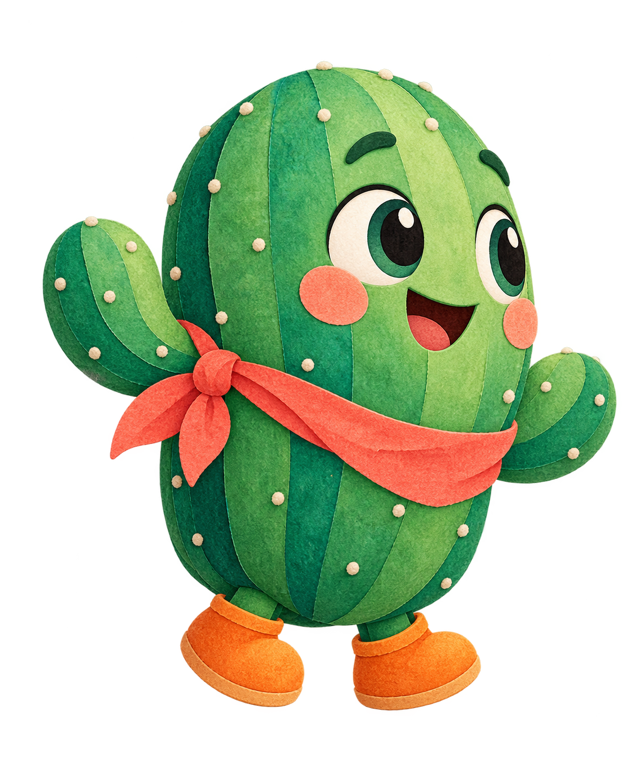
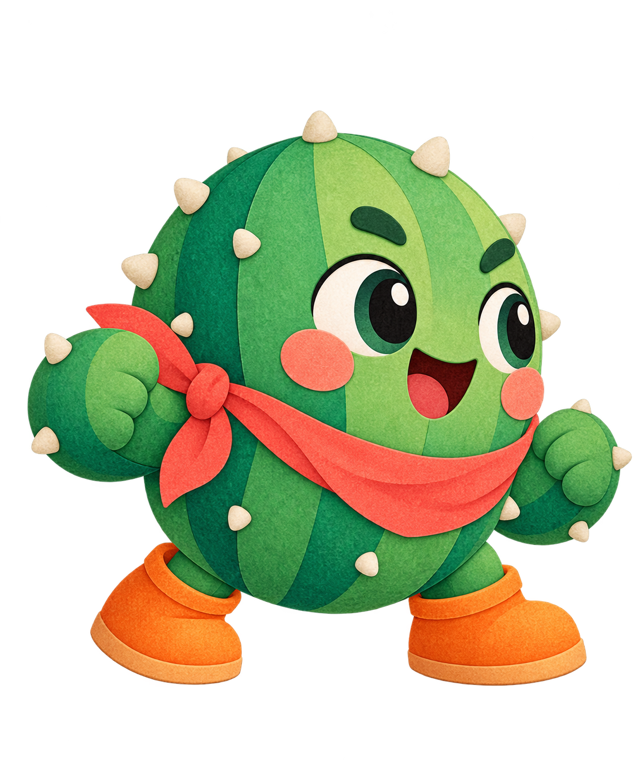
Add character worlds

diff --git a/src/App.tsx b/src/App.tsx
@@ -28,7 +28,7 @@ export default function Home(){
  useEffect(()=>{if(!profilesLoaded)return;try{localStorage.setItem(profileKey('mini'),JSON.stringify(profiles.mini));localStorage.setItem(profileKey('big'),JSON.stringify(profiles.big))}catch{setStorageWarning(true)}},[profiles,profilesLoaded]);
  useEffect(()=>{if(mode&&journey)try{localStorage.setItem(journeyKey(mode),JSON.stringify(journey))}catch{setStorageWarning(true)}},[mode,journey]);
  function submit(value:string|number){if(!task||lock.current||!mode)return;stop();setHeard(null);const n=Number(value);if(String(value).trim()===''||!Number.isInteger(n))return;if(n===task.answer){const earned=!helpUsed;lock.current=true;setJumping(true);setSolved(true);setCoinAwarded(earned);setInput(String(n));if(earned)setProfiles(current=>({...current,[mode]:{...current[mode],coins:current[mode].coins+1}}));setMessage(earned?'Geschafft! Eine Münze für dich.':'Geschafft! Mit Hilfe zählt der Sprung genauso.');speak(earned?'Juhu, geschafft! Eine Münze für dich.':'Juhu, geschafft!')}else{setInput('');setMessage('Noch nicht ganz. Wir haben Zeit. Versuch es noch einmal oder hol dir einen Tipp.');playTryAgainTone();speak('Noch nicht ganz. Versuch es noch einmal.')}}
- function next(){if(!journey||!solved||jumping)return;const j={...journey,step:journey.step+1};clear();setJourney(j);if(j.step<5)speak(taskText(j.tasks[j.step]));else speak('Wir sind am Iglu! Toll gemacht. Zeit für eine Pause?')}
+ function next(){if(!journey||!solved||jumping)return;const j={...journey,step:journey.step+1};clear();setJourney(j);if(j.step<5)speak(taskText(j.tasks[j.step]));else speak(`Wir sind ${activeAvatar.destinationPhrase}! Toll gemacht. Zeit für eine Pause?`)}
  useEffect(()=>{if(!solved||jumping||!journey)return;const timer=window.setTimeout(next,1100);return()=>window.clearTimeout(timer)},[solved,jumping,journey]);
  function another(){if(!journey||!mode)return;const j={...journey,step:0,round:journey.round+1,tasks:makeTasks(mode,journey.round+1)};clear();setJourney(j);speak(taskText(j.tasks[0]))}
  function listen(){if(listening){stop();return}if(!task||solved)return;window.speechSynthesis?.cancel();stop();setHeard(null);const C=(window as any).SpeechRecognition||(window as any).webkitSpeechRecognition;if(!C){setMessage('Sprache klappt hier noch nicht. Tippe deine Zahl unten ein.');return}let received=false;const r:Recognition=new C();recognition.current=r;r.lang='de-DE';r.continuous=false;r.interimResults=false;r.onresult=(e:any)=>{if(recognition.current!==r)return;received=true;const text=e.results[0][0].transcript,n=parseNumber(text);if(n===null){setMessage('Das habe ich nicht sicher verstanden. Sag nur die Zahl oder nutze das Zahlenpad.')}else if(n===task.answer){submit(n)}else{setHeard(n);setMessage(`Ich habe ${n} verstanden. Stimmt das?`)}};r.onerror=(e:any)=>{if(recognition.current!==r)return;received=true;setListening(false);setMessage(e.error==='not-allowed'?'Das Mikrofon ist nicht freigegeben. Du kannst das Zahlenpad nutzen oder Safari den Mikrofonzugriff erlauben.':'Ich habe dich nicht verstanden. Versuch es noch einmal oder tippe deine Zahl.')};r.onend=()=>{if(recognition.current===r){recognition.current=null;setListening(false);if(!received)setMessage('Ich habe keine Zahl gehört. Tippe auf das Mikrofon und versuch es noch einmal.')}};try{r.start();setListening(true);setMessage('Ich höre zu. Sag deine Zahl.')}catch{recognition.current=null;setListening(false);setMessage('Das Mikrofon startet gerade nicht. Das Zahlenpad funktioniert trotzdem.')}}
@@ -38,9 +38,9 @@ export default function Home(){
  function confirmPurchase(){if(!shopMode||!pendingPurchase)return;const avatar=AVATARS.find(item=>item.id===pendingPurchase);if(!avatar)return;setProfiles(current=>{const profile=current[shopMode];if(profile.owned.includes(avatar.id)||profile.coins<avatar.price)return current;return {...current,[shopMode]:{coins:profile.coins-avatar.price,owned:[...profile.owned,avatar.id],active:avatar.id}}});setShopMessage(`${avatar.name} gehört jetzt dir und ist ausgewählt!`);setPendingPurchase(null);speak(`${avatar.name} ist freigeschaltet!`)}
  function help(){const level=Math.min(2,hint+1);stop();setHint(level);setHelpUsed(true);if(task){speak(level===2?`Die Lösung ist ${task.answer}. Tippe die Zahl ein. Gemeinsam zählt auch!`:task.kind==='divide'?`Verteile ${task.a} Fische gleichmäßig auf ${task.b} Pinguine.`:task.kind==='times'?`Zähle ${task.a} Gruppen mit jeweils ${task.b} Fischen.`:task.kind==='plus'?`Nimm zuerst die größere Zahl und zähle die kleinere dazu. Die Fische helfen dir dabei.`:'Zähle die Fische in Ruhe. Du kannst sie antippen.')}}
  return <main className={'app '+(activeMode?'has-active-game':'')}><header><span className="brand"><img src={import.meta.env.BASE_URL+"pippo.png"} alt="" className="brand-pippo"/> Pippos Schollenreise</span>{activeMode?<button className="back" onClick={()=>{if(shopMode)closeShop();else{clear();setMode(null);setJourney(null)}}}><ArrowLeft size={17}/> Auswahl</button>:<span className="tag">Dein kleines Rechenabenteuer</span>}</header><div className={'game '+(mode?'playing':shopMode?'shopping':'')}><JourneyScene key={`${activeMode||'welcome'}-${journey?.round||0}`} destination={mode?visualStep(journey?.step||0,solved):0} coins={activeProfile.coins} avatar={activeProfile.active} active={Boolean(activeMode)} onArrive={()=>setJumping(false)}/><section className="panel">
- {shopMode?<div className="shop-screen"><div className="shop-top"><div><p className="eyebrow">{shopMode==='mini'?'🐣':'🧭'} {profileLabel(shopMode).toUpperCase()}</p><h1>Figuren & Shop</h1></div><div className="coin-wallet" aria-label={`${activeProfile.coins} Münzen`}><Coins size={21}/> {activeProfile.coins}</div></div><p className="shop-intro">Löse Aufgaben ohne Hilfe und spare Münzen. Gekaufte Figuren bleiben auf diesem Gerät.</p><div className="shop-grid">{AVATARS.map(avatar=>{const owned=activeProfile.owned.includes(avatar.id),selected=activeProfile.active===avatar.id,missing=Math.max(0,avatar.price-activeProfile.coins),confirming=pendingPurchase===avatar.id;return <article className={`shop-card ${selected?'selected':''}`} key={avatar.id}><div className="shop-art"><img src={import.meta.env.BASE_URL+avatar.id+".png"} alt={avatar.name}/>{selected&&<span className="selected-badge"><Check size={15}/> Ausgewählt</span>}</div><div className="shop-card-copy"><h2>{avatar.name}</h2><p>{avatar.effect}</p></div>{confirming?<div className="buy-confirm" role="group" aria-label={`${avatar.name} kaufen`}><strong>{avatar.name} für {avatar.price} Münzen kaufen?</strong><span>Danach bleiben {activeProfile.coins-avatar.price}.</span><div><button onClick={confirmPurchase}>Ja, kaufen</button><button className="quiet" onClick={()=>setPendingPurchase(null)}>Noch nicht</button></div></div>:<button className={`shop-action ${owned?'owned':''}`} disabled={selected||(!owned&&missing>0)} onClick={()=>chooseAvatar(avatar.id)}>{selected?'Ist ausgewählt':owned?'Auswählen':missing>0?<><Lock size={16}/> Noch {missing} Münzen</>:<><ShoppingBag size={16}/> Für {avatar.price} kaufen</>}</button>}</article>})}</div><p className="shop-message" role="status">{shopMessage||'Pippo ist kostenlos. Dino, Skelett und Kaktus kannst du dir erspielen.'}</p></div>:!mode?<><p className="eyebrow">HALLO, ICH BIN PIPPO!</p><h1>Komm, wir hüpfen<br/>übers Eis.</h1><p>Du rechnest. Ich springe. Zusammen kommen wir nach Hause.</p>{(['mini','big'] as Mode[]).map(m=><div className="profile-block" key={m}><button className="profile" onClick={()=>start(m)}><img src={import.meta.env.BASE_URL+profiles[m].active+".png"} alt=""/><span>{m==='mini'?'🐣 Kleine Entdecker':'🧭 Schlaue Abenteurer'}<small>{m==='mini'?'Plus, Mal & Geteilt im Zahlenraum bis 20':'Teilen & Malnehmen mit kleinen Zahlen'}</small></span></button><div className="profile-tools"><span><Coins size={17}/> {profiles[m].coins} Münzen</span><button onClick={()=>openShop(m)}><ShoppingBag size={17}/> Figuren & Shop</button></div></div>)}<p className="footnote">Fünf kleine Aufgaben. So viel Zeit, wie du brauchst.<br/>Deine Reise und deine Münzen bleiben auf diesem Gerät gespeichert.</p></>:finished?<div className="finish"><img className="finish-pippo" src={import.meta.env.BASE_URL+activeProfile.active+".png"} alt={`${activeAvatar.name} freut sich`}/><p className="eyebrow">WIR SIND ZU HAUSE!</p><h1>Fünf Sprünge.<br/>Richtig viel geschafft.</h1><p>Alle fünf Aufgaben sind geschafft. Auch mit Hilfe – wir sind ein Team!</p><div className="coin-finish" aria-label={`${activeProfile.coins} Münzen`}><Coins size={25}/> {activeProfile.coins} Münzen im Beutel</div><button className="primary" onClick={another}>Noch eine Reise <ArrowRight size={20}/></button><button className="quiet" onClick={()=>{clear();setMode(null);setJourney(null)}}>Für heute ist es genug</button></div>:task&&<>
+ {shopMode?<div className="shop-screen"><div className="shop-top"><div><p className="eyebrow">{shopMode==='mini'?'🐣':'🧭'} {profileLabel(shopMode).toUpperCase()}</p><h1>Figuren & Shop</h1></div><div className="coin-wallet" aria-label={`${activeProfile.coins} Münzen`}><Coins size={21}/> {activeProfile.coins}</div></div><p className="shop-intro">Jede Figur bringt ihre eigene Welt mit. Löse Aufgaben ohne Hilfe und spare Münzen.</p><div className="shop-grid">{AVATARS.map(avatar=>{const owned=activeProfile.owned.includes(avatar.id),selected=activeProfile.active===avatar.id,missing=Math.max(0,avatar.price-activeProfile.coins),confirming=pendingPurchase===avatar.id;return <article className={`shop-card ${selected?'selected':''}`} key={avatar.id}><div className="shop-art" style={{backgroundImage:`linear-gradient(#ffffff22,#ffffff55),url(${import.meta.env.BASE_URL}${avatar.world})`}}><img src={import.meta.env.BASE_URL+avatar.id+".png"} alt={avatar.name}/>{selected&&<span className="selected-badge"><Check size={15}/> Ausgewählt</span>}</div><div className="shop-card-copy"><h2>{avatar.name}</h2><span className="world-chip">🌍 {avatar.worldName}</span><p>{avatar.effect}</p></div>{confirming?<div className="buy-confirm" role="group" aria-label={`${avatar.name} kaufen`}><strong>{avatar.name} für {avatar.price} Münzen kaufen?</strong><span>Danach bleiben {activeProfile.coins-avatar.price}.</span><div><button onClick={confirmPurchase}>Ja, kaufen</button><button className="quiet" onClick={()=>setPendingPurchase(null)}>Noch nicht</button></div></div>:<button className={`shop-action ${owned?'owned':''}`} disabled={selected||(!owned&&missing>0)} onClick={()=>chooseAvatar(avatar.id)}>{selected?'Ist ausgewählt':owned?'Auswählen':missing>0?<><Lock size={16}/> Noch {missing} Münzen</>:<><ShoppingBag size={16}/> Für {avatar.price} kaufen</>}</button>}</article>})}</div><p className="shop-message" role="status">{shopMessage||'Pippo ist kostenlos. Dino, Skelett und Kaktus kannst du dir erspielen.'}</p></div>:!mode?<><p className="eyebrow">HALLO, ICH BIN PIPPO!</p><h1>Komm, wir reisen<br/>durch neue Welten.</h1><p>Du rechnest. Deine Figur springt. Zusammen erreichen wir das Ziel.</p>{(['mini','big'] as Mode[]).map(m=><div className="profile-block" key={m}><button className="profile" onClick={()=>start(m)}><img src={import.meta.env.BASE_URL+profiles[m].active+".png"} alt=""/><span>{m==='mini'?'🐣 Kleine Entdecker':'🧭 Schlaue Abenteurer'}<small>{m==='mini'?'Plus, Mal & Geteilt im Zahlenraum bis 20':'Teilen & Malnehmen mit kleinen Zahlen'}</small></span></button><div className="profile-tools"><span><Coins size={17}/> {profiles[m].coins} Münzen</span><button onClick={()=>openShop(m)}><ShoppingBag size={17}/> Figuren & Shop</button></div></div>)}<p className="footnote">Fünf kleine Aufgaben. So viel Zeit, wie du brauchst.<br/>Deine Reise und deine Münzen bleiben auf diesem Gerät gespeichert.</p></>:finished?<div className="finish"><img className="finish-pippo" src={import.meta.env.BASE_URL+activeProfile.active+".png"} alt={`${activeAvatar.name} freut sich`}/><p className="eyebrow">WIR SIND AM ZIEL!</p><h1>Fünf Sprünge.<br/>Richtig viel geschafft.</h1><p>Alle fünf Aufgaben sind geschafft. Auch mit Hilfe – wir sind ein Team!</p><div className="coin-finish" aria-label={`${activeProfile.coins} Münzen`}><Coins size={25}/> {activeProfile.coins} Münzen im Beutel</div><button className="primary" onClick={another}>Noch eine Reise <ArrowRight size={20}/></button><button className="quiet" onClick={()=>{clear();setMode(null);setJourney(null)}}>Für heute ist es genug</button></div>:task&&<>
  <div className="round-top"><span>{mode==='mini'?'🐣 Kleine Entdecker':'🧭 Schlaue Abenteurer'}</span><span className="round-coins"><Coins size={16}/>{activeProfile.coins}</span><span>{journey!.step+1} / 5</span></div><Progress value={visualStep(journey!.step,solved)*20} aria-label={`${visualStep(journey!.step,solved)} von 5 Aufgaben geschafft`} className="journey-progress"/>
- {solved?<div className={`celebration-card ${coinAwarded?'coin-earned':''}`} role="status" aria-live="assertive"><div className="celebration-stars" aria-hidden="true">{coinAwarded?'🪙 ⭐ 🪙':'⭐ ✨ ⭐'}</div><h1>{coinAwarded?'Münze verdient!':'Super gemacht!'}</h1><p>{journey!.step===4?`${activeAvatar.name} hüpft jetzt zum Iglu.`:`${activeAvatar.name} landet auf der nächsten Scholle.`}</p><span>{coinAwarded?'+1 Münze · ':helpUsed?'Mit Hilfe geschafft · ':''}{jumping?'Huuuupf!':'Gleich kommt die nächste Aufgabe …'}</span></div>:<>
+ {solved?<div className={`celebration-card ${coinAwarded?'coin-earned':''}`} role="status" aria-live="assertive"><div className="celebration-stars" aria-hidden="true">{coinAwarded?'🪙 ⭐ 🪙':'⭐ ✨ ⭐'}</div><h1>{coinAwarded?'Münze verdient!':'Super gemacht!'}</h1><p>{journey!.step===4?`${activeAvatar.name} hüpft jetzt ${activeAvatar.destinationPhrase}.`:`${activeAvatar.name} landet auf der nächsten Etappe.`}</p><span>{coinAwarded?'+1 Münze · ':helpUsed?'Mit Hilfe geschafft · ':''}{jumping?'Huuuupf!':'Gleich kommt die nächste Aufgabe …'}</span></div>:<>
  <div className="task-heading"><p className="eyebrow">{task.kind==='count'?'FISCHE ZÄHLEN':task.kind==='divide'?'FAIR VERTEILEN':task.kind==='times'?'MALNEHMEN':'PLUS BIS 20'}</p><button className="icon-button" aria-label="Aufgabe vorlesen" onClick={()=>speak(taskText(task))}><Volume2 size={22}/></button></div>
  <h1 className="equation">{task.kind==='count'?'Wie viele?':`${task.a} ${task.kind==='plus'?'+':task.kind==='times'?'×':'÷'} ${task.b} = ?`}</h1>
  {task.kind==='count'?<div className="fish-problem" key={journey!.step}><Fish count={task.a}/></div>:<p className="task-story">{task.kind==='plus'?'Rechne im Kopf. Wenn du festhängst, hilft Pippo dir.':taskText(task)}</p>}
@@ -51,7 +51,7 @@ export default function Home(){
  <div className="secondary-actions"><button className="help" onClick={help}><Lightbulb size={18}/>{hint===0?'Pippo, hilf mir!':hint===1?'Zeig mir die Lösung':'Lösung noch einmal hören'}</button>{speechAvailable&&<button className={'speech-option '+(listening?'listening':'')} onClick={listen}>{listening?<Square size={17}/>:<Mic size={17}/>} {listening?'Ich höre zu …':'Antwort sprechen (optional)'}</button>}</div></>}
  </>}
  {storageWarning&&<p className="small-note">Dein Browser kann die Reise gerade nicht speichern. Du kannst trotzdem spielen.</p>}
- </section></div><footer><details className="voice-settings"><summary>Vorlesestimme anhören & ändern</summary><div className="voice-controls"><label>Deutsche Stimme<NativeSelect aria-label="Deutsche Vorlesestimme" value={voiceKey} onChange={e=>saveVoice(e.target.value)}><NativeSelectOption value="">Automatisch{voices[0]?` · ${voices[0].name}`:""}</NativeSelectOption>{voices.map(v=><NativeSelectOption key={v.voiceURI} value={v.voiceURI}>{v.name} ({v.lang})</NativeSelectOption>)}</NativeSelect></label><label>Sprechtempo<NativeSelect aria-label="Sprechtempo" value={String(rate)} onChange={e=>saveRate(Number(e.target.value))}><NativeSelectOption value="0.85">Langsam</NativeSelectOption><NativeSelectOption value="0.97">Natürlich</NativeSelectOption><NativeSelectOption value="1.05">Etwas flotter</NativeSelectOption></NativeSelect></label><button className="primary" onClick={()=>speak("Hallo, ich bin Pippo. Lass uns zusammen über die Eisschollen hüpfen. Du hast alle Zeit der Welt.")}><Volume2 size={20}/> Stimme vorhören</button></div><p role="status">{voiceNotice||"Das Spiel nutzt die deutschen Stimmen, die dein Browser bereitstellt. Höherwertige Stimmen werden bevorzugt, wenn sie als solche gekennzeichnet sind."}</p><p>Auf iPhone und iPad lassen sich weitere Stimmen in den Bedienungshilfen herunterladen. Welche davon Safari anbietet, hängt vom Gerät ab. <a href="https://support.apple.com/de-de/111798" target="_blank" rel="noreferrer">Apples Anleitung zu Vorlesestimmen</a></p></details><details><summary>Für die Großen: Sprache & Speichern</summary><p>Zum Sprechen auf das Mikrofon tippen und nur die Zahl sagen. Die Spracherkennung kommt vom Browser und kann Audio an dessen Sprachdienst übertragen. Dieses Spiel speichert keine Sprachaufnahmen. Falsch verstandene Zahlen musst du erst bestätigen. Aufgaben, Münzen, Figuren und Reise werden nur in diesem Browser gespeichert, getrennt für beide Spielprofile und ohne Synchronisierung zwischen Geräten. Vorlesen ist über das Lautsprechersymbol möglich.</p><p>Erste Testversion: Am besten gemeinsam eine Runde ausprobieren. Falls Sprache nicht klappt, funktioniert das Zahlenpad weiter.</p></details></footer></main>
+ </section></div><footer><details className="voice-settings"><summary>Vorlesestimme anhören & ändern</summary><div className="voice-controls"><label>Deutsche Stimme<NativeSelect aria-label="Deutsche Vorlesestimme" value={voiceKey} onChange={e=>saveVoice(e.target.value)}><NativeSelectOption value="">Automatisch{voices[0]?` · ${voices[0].name}`:""}</NativeSelectOption>{voices.map(v=><NativeSelectOption key={v.voiceURI} value={v.voiceURI}>{v.name} ({v.lang})</NativeSelectOption>)}</NativeSelect></label><label>Sprechtempo<NativeSelect aria-label="Sprechtempo" value={String(rate)} onChange={e=>saveRate(Number(e.target.value))}><NativeSelectOption value="0.85">Langsam</NativeSelectOption><NativeSelectOption value="0.97">Natürlich</NativeSelectOption><NativeSelectOption value="1.05">Etwas flotter</NativeSelectOption></NativeSelect></label><button className="primary" onClick={()=>speak("Hallo, ich bin Pippo. Lass uns zusammen auf Abenteuerreise gehen. Du hast alle Zeit der Welt.")}><Volume2 size={20}/> Stimme vorhören</button></div><p role="status">{voiceNotice||"Das Spiel nutzt die deutschen Stimmen, die dein Browser bereitstellt. Höherwertige Stimmen werden bevorzugt, wenn sie als solche gekennzeichnet sind."}</p><p>Auf iPhone und iPad lassen sich weitere Stimmen in den Bedienungshilfen herunterladen. Welche davon Safari anbietet, hängt vom Gerät ab. <a href="https://support.apple.com/de-de/111798" target="_blank" rel="noreferrer">Apples Anleitung zu Vorlesestimmen</a></p></details><details><summary>Für die Großen: Sprache & Speichern</summary><p>Zum Sprechen auf das Mikrofon tippen und nur die Zahl sagen. Die Spracherkennung kommt vom Browser und kann Audio an dessen Sprachdienst übertragen. Dieses Spiel speichert keine Sprachaufnahmen. Falsch verstandene Zahlen musst du erst bestätigen. Aufgaben, Münzen, Figuren und Reise werden nur in diesem Browser gespeichert, getrennt für beide Spielprofile und ohne Synchronisierung zwischen Geräten. Vorlesen ist über das Lautsprechersymbol möglich.</p><p>Erste Testversion: Am besten gemeinsam eine Runde ausprobieren. Falls Sprache nicht klappt, funktioniert das Zahlenpad weiter.</p></details></footer></main>
 }
 function Fish({count}:{count:number}){const [marked,setMarked]=useState<number[]>([]);useEffect(()=>setMarked([]),[count]);return <span className="fishes">{Array.from({length:count},(_,i)=><button type="button" key={i} className={marked.includes(i)?'counted':''} aria-label={`Fisch ${i+1}`} aria-pressed={marked.includes(i)} onClick={()=>setMarked(s=>s.includes(i)?s.filter(x=>x!==i):[...s,i])}>🐟</button>)}</span>}
 function Progress({value,...props}:ComponentProps<'div'>&{value:number}){return <div data-slot="progress" {...props}><div data-slot="progress-track"><span data-slot="progress-indicator" style={{width:`${value}%`}}/></div></div>}

diff --git a/src/journey.css b/src/journey.css
@@ -3,6 +3,7 @@
 .profile-block{border:2px solid #d5e8e6;border-radius:19px;background:#f2f9f7;margin-top:13px;overflow:hidden}.profile-block .profile{display:grid;grid-template-columns:48px 1fr;align-items:center;gap:10px;border:0;border-radius:0;margin:0;background:transparent}.profile-block .profile:hover{background:#e3f2ef}.profile-block .profile img{grid-row:1;width:43px;height:52px;object-fit:contain}.profile-block .profile>span{display:block}.profile-block .profile small{margin:6px 0 0}.profile-tools{display:flex;justify-content:space-between;align-items:center;gap:10px;border-top:1px solid #d5e8e6;padding:8px 12px 8px 18px}.profile-tools span,.profile-tools button,.round-coins,.coin-wallet,.coin-finish{display:inline-flex;align-items:center;gap:6px}.profile-tools span{font-size:14px;font-weight:750;color:#8a5a16}.profile-tools button{border:0;border-radius:11px;background:#fff;padding:8px 10px;min-height:40px;color:#176a76;font-weight:750}.round-top{align-items:center}.round-coins{color:#8a5a16}.coin-finish{justify-content:center;margin:14px auto;color:#8a5a16;font-size:18px;font-weight:800}.celebration-card.coin-earned{background:linear-gradient(145deg,#fff2bd,#e9faf3);box-shadow:inset 0 0 0 2px #fff,0 12px 40px #e8b84d30}.celebration-card.coin-earned .celebration-stars{animation:coin-pop 1.1s ease-out both}
 
 .shopping .panel{justify-content:flex-start;padding:28px 30px;min-width:0}.shop-screen{width:100%}.shop-top{display:flex;align-items:flex-start;justify-content:space-between;gap:12px}.shop-top h1{margin:3px 0 0;font-size:34px}.shop-top .eyebrow{margin:0}.coin-wallet{flex-shrink:0;border-radius:999px;background:#fff1be;color:#7f5112;padding:10px 14px;font-weight:850;font-size:18px;box-shadow:inset 0 0 0 1px #e8c866}.shop-intro{margin:8px 0 15px;color:#526d77;font-size:14px;line-height:1.45}.shop-grid{display:grid;grid-template-columns:repeat(2,minmax(0,1fr));gap:11px}.shop-card{display:flex;flex-direction:column;min-width:0;border:2px solid #d8e7e4;border-radius:17px;background:#f8fbfa;overflow:hidden}.shop-card.selected{border-color:#168290;background:#eef8f5}.shop-art{position:relative;height:125px;display:flex;align-items:flex-end;justify-content:center;background:linear-gradient(180deg,#dff4ef,#fff6d9);overflow:hidden}.shop-art img{width:92px;height:116px;object-fit:contain;object-position:center bottom;filter:drop-shadow(0 4px 3px #17465325)}.selected-badge{position:absolute;right:7px;top:7px;display:inline-flex;align-items:center;gap:3px;background:#176f77;color:#fff;border-radius:999px;padding:5px 7px;font-size:11px;font-weight:800}.shop-card-copy{padding:10px 11px 5px;min-height:84px}.shop-card h2{font-size:18px;margin:0 0 3px;color:#174653}.shop-card p{font-size:12px;line-height:1.35;margin:0;color:#526d77}.shop-action{display:flex;align-items:center;justify-content:center;gap:5px;margin:6px 9px 9px;min-height:42px;border:0;border-radius:11px;background:#ffcf72;color:#493715;font-size:13px;font-weight:850;padding:7px}.shop-action.owned{background:#167783;color:#fff}.shop-action:disabled{background:#e8eeec;color:#6d7f83;opacity:1}.buy-confirm{display:grid;gap:4px;margin:6px 9px 9px;border-radius:11px;background:#fff2c5;padding:9px;color:#563f16;font-size:12px}.buy-confirm strong{font-size:13px}.buy-confirm>div{display:flex;gap:5px;margin-top:3px}.buy-confirm button{flex:1;border:0;border-radius:8px;background:#176f77;color:#fff;padding:7px 5px;font-weight:800}.buy-confirm button.quiet{background:transparent;color:#526d77;margin:0}.shop-message{min-height:38px;margin:12px 0 0;padding:8px 10px;border-radius:11px;background:#edf7f5;color:#41616b;font-size:13px;line-height:1.35}.flower-burst{position:absolute;left:50%;top:15%;width:180%;transform:translateX(-50%);text-align:center;font-size:clamp(13px,2vw,24px);animation:flower-pop .7s ease-out both}.route-scene.avatar-skeleton.landed-effect .penguin-anchor img{animation:skeleton-rattle .45s ease-out}.route-scene.avatar-dino.landed-effect .scene-window{animation:dino-shake .4s ease-out}
+.shop-art{background-size:cover;background-position:center 42%}.shop-art:after{content:"";position:absolute;inset:0;background:linear-gradient(180deg,#fff0 45%,#fff8 100%);pointer-events:none}.shop-art img,.selected-badge{z-index:1}.world-chip{display:inline-flex;align-items:center;margin:0 0 5px;padding:3px 7px;border-radius:999px;background:#e0f0ed;color:#23636b;font-size:11px;font-weight:800}
 
 @keyframes coin-pop{0%{opacity:0;transform:translateY(22px) scale(.65) rotate(-8deg)}50%{opacity:1;transform:translateY(-8px) scale(1.13) rotate(5deg)}100%{opacity:1;transform:none}}@keyframes dino-shake{0%,100%{transform:none}20%{transform:translateX(-3px)}40%{transform:translateX(3px)}60%{transform:translateX(-2px)}80%{transform:translateX(2px)}}@keyframes skeleton-rattle{0%,100%{transform:none}20%{transform:rotate(-7deg)}40%{transform:rotate(7deg)}60%{transform:rotate(-4deg)}80%{transform:rotate(4deg)}}@keyframes flower-pop{0%{opacity:0;transform:translate(-50%,18px) scale(.3)}55%{opacity:1;transform:translate(-50%,-8px) scale(1.15)}100%{opacity:0;transform:translate(-50%,-22px) scale(1)}}
 

diff --git a/src/JourneyScene.tsx b/src/JourneyScene.tsx
@@ -5,17 +5,17 @@ import {AVATARS,type AvatarId} from './lib/game';
 export default function JourneyScene({destination,coins,avatar,active,onArrive}:{destination:number;coins:number;avatar:AvatarId;active:boolean;onArrive:()=>void}){
  const viewport=useRef<HTMLDivElement>(null),callback=useRef(onArrive);callback.current=onArrive;
  const [position,setPosition]=useState<{x:number;y:number;size:number;lift:number;label:string}>({...STOPS[destination],lift:0}),positionRef=useRef(position),[moving,setMoving]=useState(false),[landed,setLanded]=useState(false),[bounds,setBounds]=useState({width:0,height:0});
- const avatarName=AVATARS.find(item=>item.id===avatar)?.name||'Pippo';
+ const avatarData=AVATARS.find(item=>item.id===avatar)||AVATARS[0],avatarName=avatarData.name;
  useEffect(()=>{const node=viewport.current;if(!node)return;const measure=()=>setBounds({width:node.clientWidth,height:node.clientHeight});measure();const observer=new ResizeObserver(measure);observer.observe(node);return()=>observer.disconnect()},[]);
  useEffect(()=>{const from=positionRef.current,to=STOPS[destination];if(from.x===to.x&&from.y===to.y)return;const reduced=window.matchMedia('(prefers-reduced-motion: reduce)').matches;let frame=0;const begin=performance.now();setLanded(false);setMoving(true);const tick=(now:number)=>{const t=reduced?1:Math.min(1,(now-begin)/1000),next=sampleJump(from,to,t);positionRef.current={...next,label:to.label};setPosition(positionRef.current);if(t<1)frame=requestAnimationFrame(tick);else{setMoving(false);setLanded(true);callback.current()}};frame=requestAnimationFrame(tick);return()=>cancelAnimationFrame(frame)},[destination]);
  useEffect(()=>{if(!landed)return;const timer=window.setTimeout(()=>setLanded(false),700);return()=>window.clearTimeout(timer)},[landed,destination]);
  const offset=cameraOffset(bounds.width,bounds.height,position.y);
- return <section className={`landscape route-scene avatar-${avatar} ${landed?'landed-effect':''}`} aria-label={`${avatarName}: ${STOPS[destination].label}, ${destination} von 5 Sprüngen`}>
+ return <section className={`landscape route-scene avatar-${avatar} ${landed?'landed-effect':''}`} aria-label={`${avatarName} in der ${avatarData.worldName}: ${destination} von 5 Sprüngen`}>
  <div className="scene-window" ref={viewport}><div className="scene-stage" style={{transform:`translateY(-${offset}px)`}}>
- <img className="world-art" src={import.meta.env.BASE_URL+"ice-world.png"} alt="Ein Schollenweg führt über türkisfarbenes Wasser zu einem Iglu." width={1086} height={1448}/>
+ <img className="world-art" src={import.meta.env.BASE_URL+avatarData.world} alt={`${avatarData.worldName}: Der Weg führt ${avatarData.destinationPhrase}.`} width={1086} height={1448}/>
  <svg className="route-line" viewBox="0 0 100 100" preserveAspectRatio="none" aria-hidden="true"><polyline points={STOPS.map(p=>`${p.x},${p.y}`).join(' ')} fill="none" stroke="white" strokeWidth=".6" strokeDasharray="1 1" opacity=".8"/></svg>
  {MARKERS.map((point,i)=><span key={i} className={`route-marker ${point.flag?'flag-number':''} ${destination>=i+1?'visited':''} ${destination+1===i+1?'up-next':''}`} style={{left:`${point.x}%`,top:`${point.y}%`}} aria-label={`Wegmarke ${i+1}${destination>=i+1?' erreicht':''}`}>{destination>=i+1?'✓':i+1}</span>)}
  <div className={'penguin-anchor '+(moving?'in-flight':'')} style={{left:`${position.x}%`,top:`${position.y-position.lift}%`,width:`${position.size}%`}}><img src={import.meta.env.BASE_URL+avatar+".png"} alt={`${avatarName}, die ausgewählte Spielfigur`} draggable={false}/>{avatar==='cactus'&&landed&&<span className="flower-burst" aria-hidden="true">🌸 ✿ 🌼</span>}</div>
- </div></div><div className="journey-label">{destination===5&&!moving?'AM IGLU!':'FÜNF SPRÜNGE ZUM IGLU'}<span>{moving?'Huuuupf!':destination===5?'Direkt vor der Tür.':active?`Nächstes Ziel: ${destination+1}`:'Folge den nummerierten Wegmarken.'}</span></div>{active&&<span className="fish-total" aria-label={`${coins} Münzen`}>🪙 {coins}</span>}<div className="scene-caption">{moving?'Von einer Scholle zur nächsten …':destination===5?`Geschafft! ${avatarName} ist zu Hause.`:active?`${destination} von 5 Sprüngen geschafft`:`Jede richtige Antwort bringt ${avatarName} ein Ziel weiter.`}</div>
+ </div></div><div className="journey-label">{destination===5&&!moving?avatarData.arrival:`FÜNF SPRÜNGE ${avatarData.destinationPhrase.toUpperCase()}`}<span>{moving?'Huuuupf!':destination===5?'Direkt am Ziel.':active?`Nächstes Ziel: ${destination+1}`:'Folge den nummerierten Wegmarken.'}</span></div>{active&&<span className="fish-total" aria-label={`${coins} Münzen`}>🪙 {coins}</span>}<div className="scene-caption">{moving?'Von einer Etappe zur nächsten …':destination===5?`Geschafft! ${avatarName} ist am Ziel.`:active?`${destination} von 5 Sprüngen geschafft`:`Jede richtige Antwort bringt ${avatarName} ein Ziel weiter.`}</div>
  </section>
 }

diff --git a/src/lib/game.ts b/src/lib/game.ts
@@ -2,10 +2,10 @@ export type Mode='mini'|'big';
 export type Task={kind:'count'|'plus'|'divide'|'times';a:number;b:number;answer:number};
 export type Journey={tasks:Task[];step:number;round:number};
 export const AVATARS=[
- {id:'pippo',name:'Pippo',price:0,effect:'Der mutige Pinguin für den Start.'},
- {id:'dino',name:'Dino',price:30,effect:'Landet mit einem kräftigen Wackler.'},
- {id:'skeleton',name:'Skelett',price:50,effect:'Klappert fröhlich beim Landen.'},
- {id:'cactus',name:'Kaktus',price:100,effect:'Lässt kleine Blüten aufploppen.'},
+ {id:'pippo',name:'Pippo',price:0,effect:'Der mutige Pinguin für den Start.',world:'ice-world.png',worldName:'Eiswelt',destination:'Iglu',destinationPhrase:'zum Iglu',arrival:'AM IGLU!'},
+ {id:'dino',name:'Dino',price:30,effect:'Landet mit einem kräftigen Wackler.',world:'jungle-world.png',worldName:'Urzeit-Dschungel',destination:'Dinonest',destinationPhrase:'zum Dinonest',arrival:'AM DINONEST!'},
+ {id:'skeleton',name:'Skelett',price:50,effect:'Klappert fröhlich beim Landen.',world:'graveyard-world.png',worldName:'Mondfriedhof',destination:'Gruft',destinationPhrase:'zur Gruft',arrival:'AN DER GRUFT!'},
+ {id:'cactus',name:'Kaktus',price:100,effect:'Lässt kleine Blüten aufploppen.',world:'desert-world.png',worldName:'Wüstenoase',destination:'Oase',destinationPhrase:'zur Oase',arrival:'AN DER OASE!'},
 ] as const;
 export type AvatarId=typeof AVATARS[number]['id'];
 export type PlayerProfile={coins:number;owned:AvatarId[];active:AvatarId};
